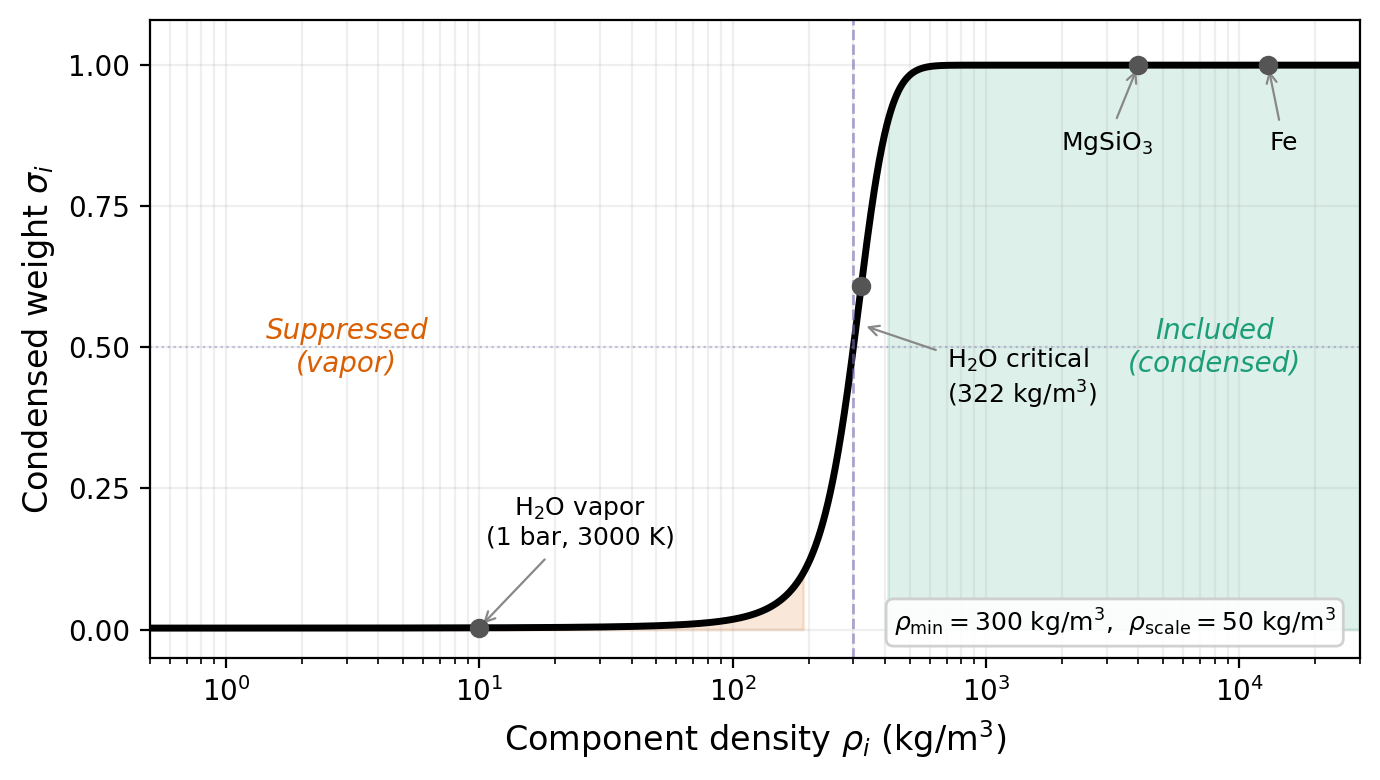
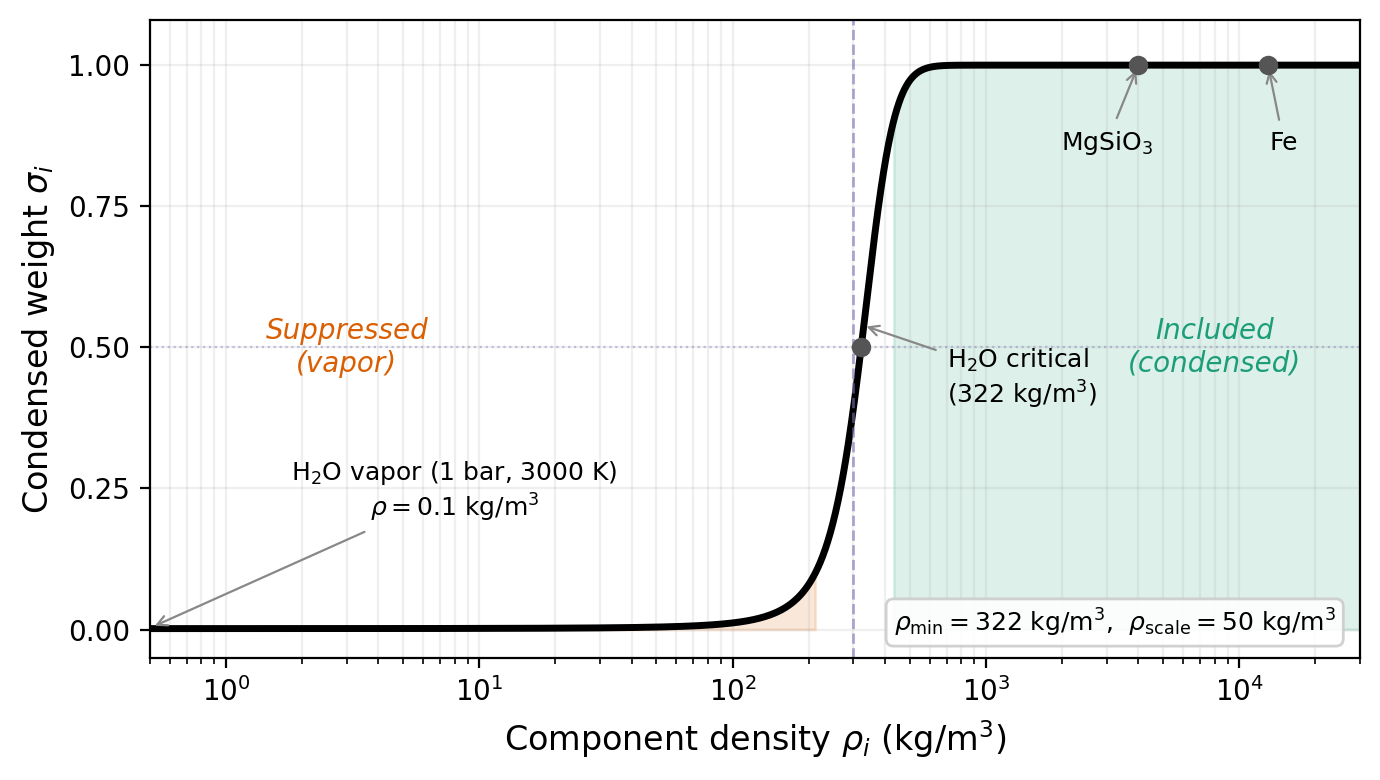
Set condensed_rho_min to exact H2O critical density (322 kg/m^3)
Changed from 300 to 322 kg/m^3 for self-consistency: the sigmoid
center now sits exactly at the well-known H2O critical density
(647 K, 22.1 MPa). Updated default in constants.py, default.toml,
all function signatures, tests, docs, and sigmoid figure.

diff --git a/src/tests/test_mixing.py b/src/tests/test_mixing.py
@@ -359,7 +359,7 @@ class TestVaporSuppression:
                 None,
                 None,
                 {},
-                condensed_rho_min=300.0,
+                condensed_rho_min=322.0,
                 condensed_rho_scale=50.0,
             )
 
@@ -392,7 +392,7 @@ class TestVaporSuppression:
                 None,
                 None,
                 {},
-                condensed_rho_min=300.0,
+                condensed_rho_min=322.0,
                 condensed_rho_scale=50.0,
             )
 
@@ -427,7 +427,7 @@ class TestVaporSuppression:
                 None,
                 None,
                 {},
-                condensed_rho_min=300.0,
+                condensed_rho_min=322.0,
                 condensed_rho_scale=50.0,
             )
 
@@ -454,7 +454,7 @@ class TestVaporSuppression:
                 None,
                 None,
                 {},
-                condensed_rho_min=300.0,
+                condensed_rho_min=322.0,
                 condensed_rho_scale=50.0,
             )
 
@@ -492,7 +492,7 @@ class TestVaporSuppression:
                 {},
                 {},
                 mushy_zone_factor=1.0,
-                condensed_rho_min=300.0,
+                condensed_rho_min=322.0,
                 condensed_rho_scale=50.0,
             )
 

diff --git a/src/zalmoxis/structure_model.py b/src/zalmoxis/structure_model.py
@@ -66,7 +66,7 @@ def coupled_odes(
     solidus_func,
     liquidus_func,
     mushy_zone_factor=1.0,
-    condensed_rho_min=300.0,
+    condensed_rho_min=322.0,
     condensed_rho_scale=50.0,
 ):
     """Calculate derivatives of mass, gravity, and pressure w.r.t. radius.
@@ -171,7 +171,7 @@ def solve_structure(
     liquidus_func,
     temperature_function=None,
     mushy_zone_factor=1.0,
-    condensed_rho_min=300.0,
+    condensed_rho_min=322.0,
     condensed_rho_scale=50.0,
 ):
     """Solve the coupled ODEs for the planetary structure model.

diff --git a/src/zalmoxis/constants.py b/src/zalmoxis/constants.py
@@ -31,9 +31,7 @@ TDEP_EOS_NAMES = {
 # Components with density below the sigmoid center are progressively
 # excluded from the harmonic-mean density, preventing non-condensed
 # volatiles (vapor, supercritical gas) from dominating the mixture.
-CONDENSED_RHO_MIN_DEFAULT = (
-    300.0  # kg/m^3, sigmoid center (near H2O critical density 322 kg/m^3)
-)
+CONDENSED_RHO_MIN_DEFAULT = 322.0  # kg/m^3, sigmoid center = H2O critical density
 CONDENSED_RHO_SCALE_DEFAULT = 50.0  # kg/m^3, sigmoid transition width
 
 # Other constants

diff --git a/src/zalmoxis/mixing.py b/src/zalmoxis/mixing.py
@@ -231,7 +231,7 @@ def _condensed_weight(
     rho : float
         Component density in kg/m^3.
     rho_min : float
-        Sigmoid center in kg/m^3. Default 300 (near H2O critical density).
+        Sigmoid center in kg/m^3. Default 322 (H2O critical density).
     rho_scale : float
         Sigmoid transition width in kg/m^3. Default 50. Must be positive;
         zero produces NaN at rho=rho_min (validated at config load time).

diff --git a/src/zalmoxis/eos_functions.py b/src/zalmoxis/eos_functions.py
@@ -1141,7 +1141,7 @@ def compute_adiabatic_temperature(
     solidus_func=None,
     liquidus_func=None,
     mushy_zone_factor=1.0,
-    condensed_rho_min=300.0,
+    condensed_rho_min=322.0,
     condensed_rho_scale=50.0,
 ):
     """

diff --git a/docs/How-to/configuration.md b/docs/How-to/configuration.md
@@ -137,7 +137,7 @@ See the [mixing documentation](../Explanations/mixing.md) for the physics.
 
 | Field | Required | Default | Unit | Description |
 |---|---|---|---|---|
-| `condensed_rho_min` | No | `300.0` | kg/m$^3$ | Sigmoid center density. Components with density well below this are progressively excluded from the harmonic mean. The default is calibrated for H$_2$O (critical density 322 kg/m$^3$). Must be adjusted for other volatiles: CO$_2$ ~470, NH$_3$ ~225, He ~70, H$_2$ ~30 kg/m$^3$. Currently only H$_2$O has gas-phase data in the EOS tables, so the default is appropriate for all existing configurations. |
+| `condensed_rho_min` | No | `322.0` | kg/m$^3$ | Sigmoid center density, set to the H$_2$O critical density (322 kg/m$^3$ at 647 K, 22.1 MPa). Components with density well below this are progressively excluded from the harmonic mean. Must be adjusted for other volatiles: CO$_2$ ~470, NH$_3$ ~225, He ~70, H$_2$ ~30 kg/m$^3$. Currently only H$_2$O has gas-phase data in the EOS tables, so the default is appropriate for all existing configurations. |
 | `condensed_rho_scale` | No | `50.0` | kg/m$^3$ | Sigmoid transition width. Smaller values produce a sharper cutoff; larger values a more gradual transition. The sigmoid goes from $\sigma = 0.02$ to $\sigma = 0.98$ over a density range of approximately $4 \times$ `condensed_rho_scale`. |
 
 Both parameters must be positive. The validation rejects non-positive values at config load time.

diff --git a/docs/Explanations/mixing.md b/docs/Explanations/mixing.md
@@ -70,7 +70,7 @@ The default parameters are calibrated for H$_2$O:
 
 | Parameter | Default | Physical meaning |
 |---|---|---|
-| `condensed_rho_min` | 300 kg/m$^3$ | Sigmoid center, near H$_2$O critical density (322 kg/m$^3$ at 647 K, 22.1 MPa) |
+| `condensed_rho_min` | 322 kg/m$^3$ | Sigmoid center = H$_2$O critical density (647 K, 22.1 MPa) |
 | `condensed_rho_scale` | 50 kg/m$^3$ | Transition width; $\sigma$ goes from 0.02 to 0.98 over a range of about 200 kg/m$^3$ |
 
 Behavior at representative densities:
@@ -79,7 +79,7 @@ Behavior at representative densities:
 |---|---|---|
 | 10 | H$_2$O vapor at 1 bar, 3000 K | 0.003 |
 | 100 | H$_2$O low-density supercritical | 0.018 |
-| 300 | Near critical density | 0.500 |
+| 322 | H$_2$O critical density (sigmoid center) | 0.500 |
 | 500 | Dense supercritical H$_2$O | 0.982 |
 | 1000 | Liquid H$_2$O at high $P$ | 1.000 |
 | 4000 | MgSiO$_3$ | 1.000 |
